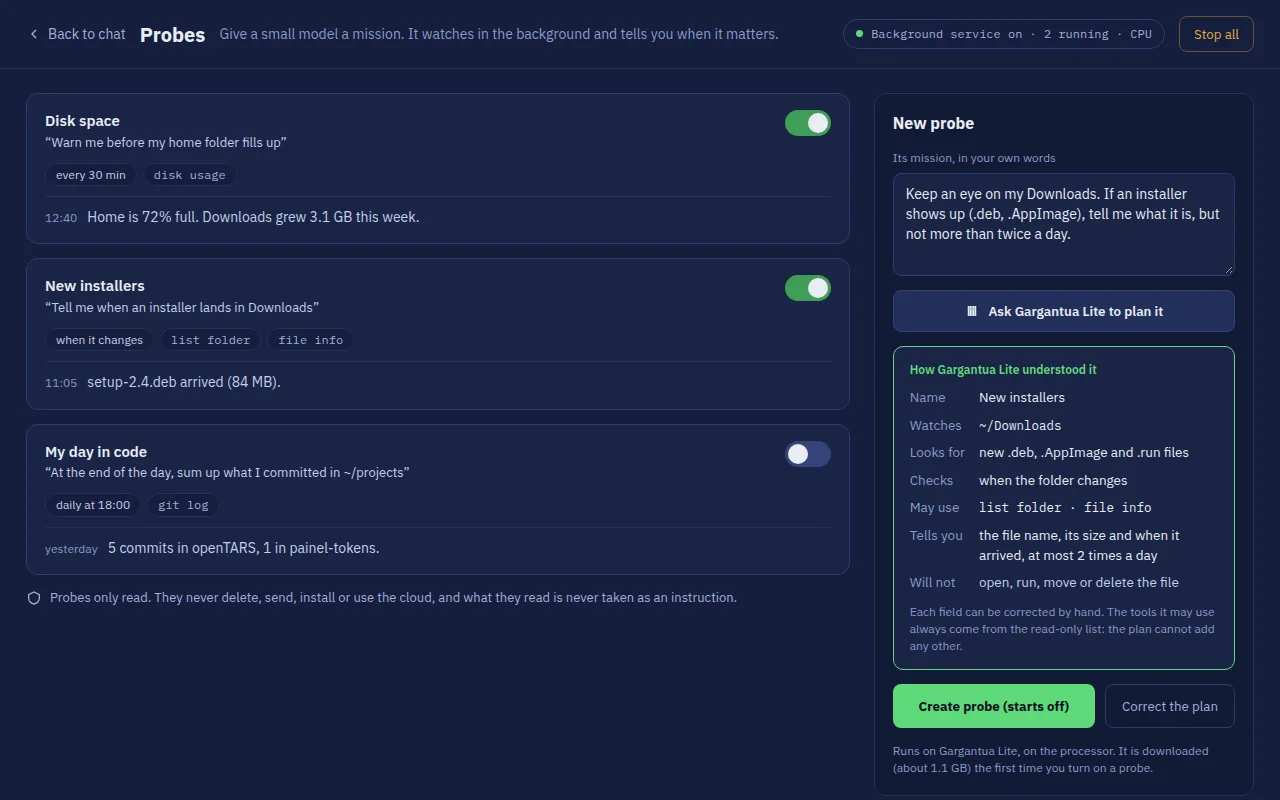
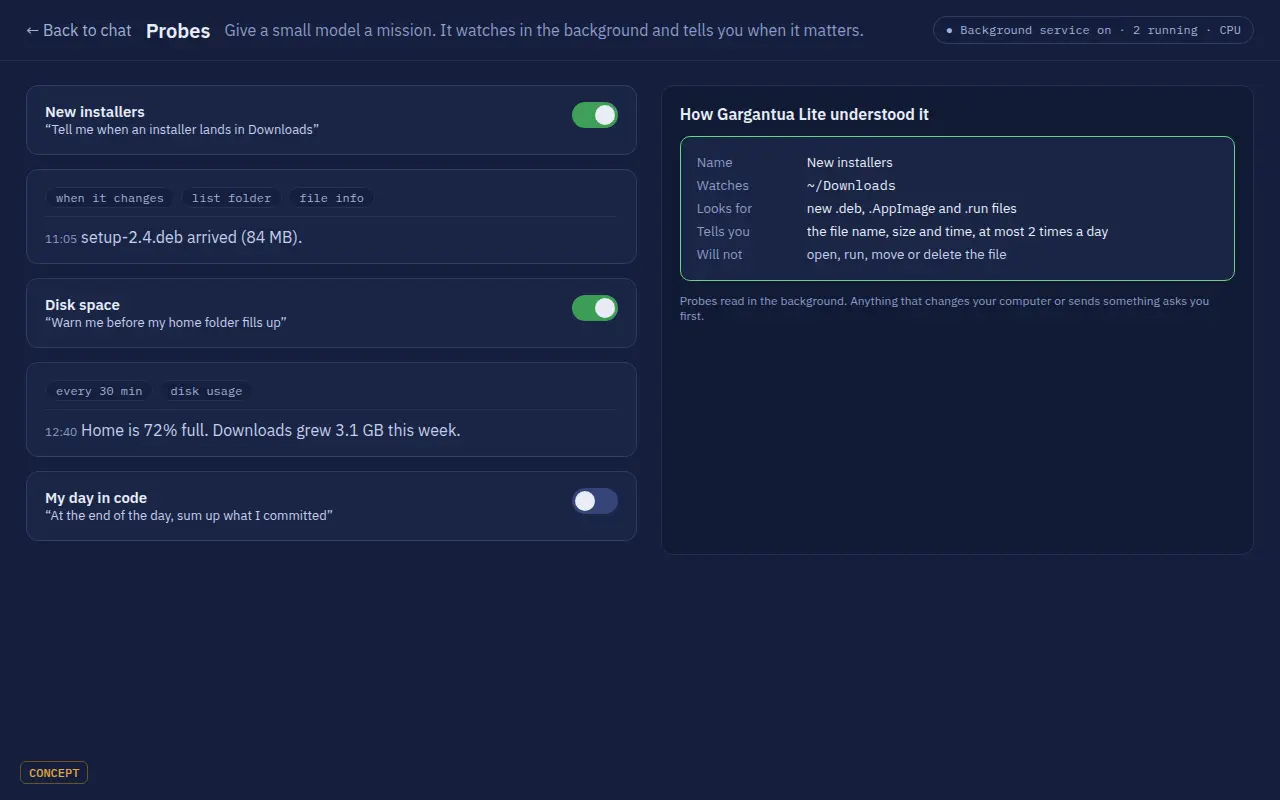
Site: Probes podem agir, com aprovação para o que mexe no PC ou envia algo

diff --git a/docs/index.html b/docs/index.html
@@ -281,7 +281,7 @@
         <li><h3>Three modes: Lite, Base and Pro</h3><p>Chosen on first run, so the window shows only what you need. Switch any time in Settings.</p></li>
         <li><h3>Gargantua Lite</h3><p>A smaller model for computers without a graphics card and with little memory. Installed on those computers, or downloaded when you create your first Probe.</p></li>
         <li><h3>Easier cloud setup</h3><p>Sign in to Ollama Cloud without copying keys. Still off by default.</p></li>
-        <li><h3>Probes</h3><p>Write a mission in your own words and Gargantua Lite turns it into a small watcher that runs in the background, only reads, and tells you when something matters. Off until you turn one on.</p></li>
+        <li><h3>Probes</h3><p>Write a mission in your own words and Gargantua Lite turns it into a small watcher that runs in the background and tells you when something matters. Off until you turn one on. Probes can act too: anything that changes your computer or sends something asks you first, and nothing runs without your yes.</p></li>
         <li><h3>A terminal like today's AI tools</h3><p>Resume a conversation, see how much context is left, plan before acting, and approve a command once or for the whole session.</p></li>
         <li><h3>More than Google and YouTube</h3><p>Search inside Spotify, Netflix, Reddit and others, open a profile or a channel, and get directions on the map. General web search through SearXNG.</p></li>
       </ul>
